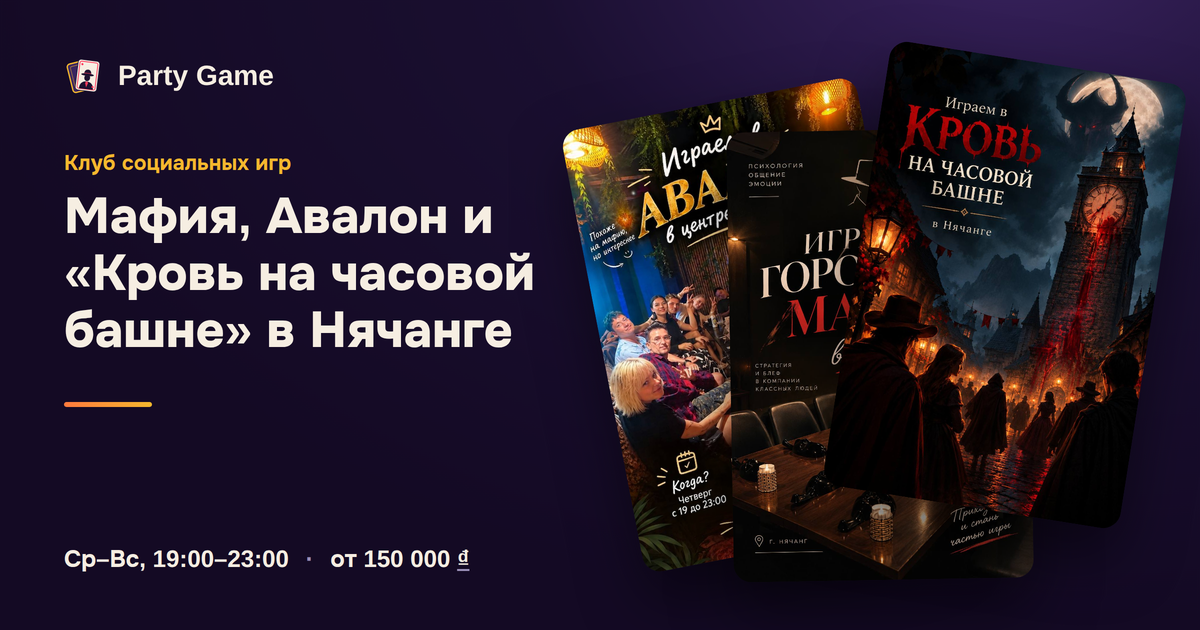
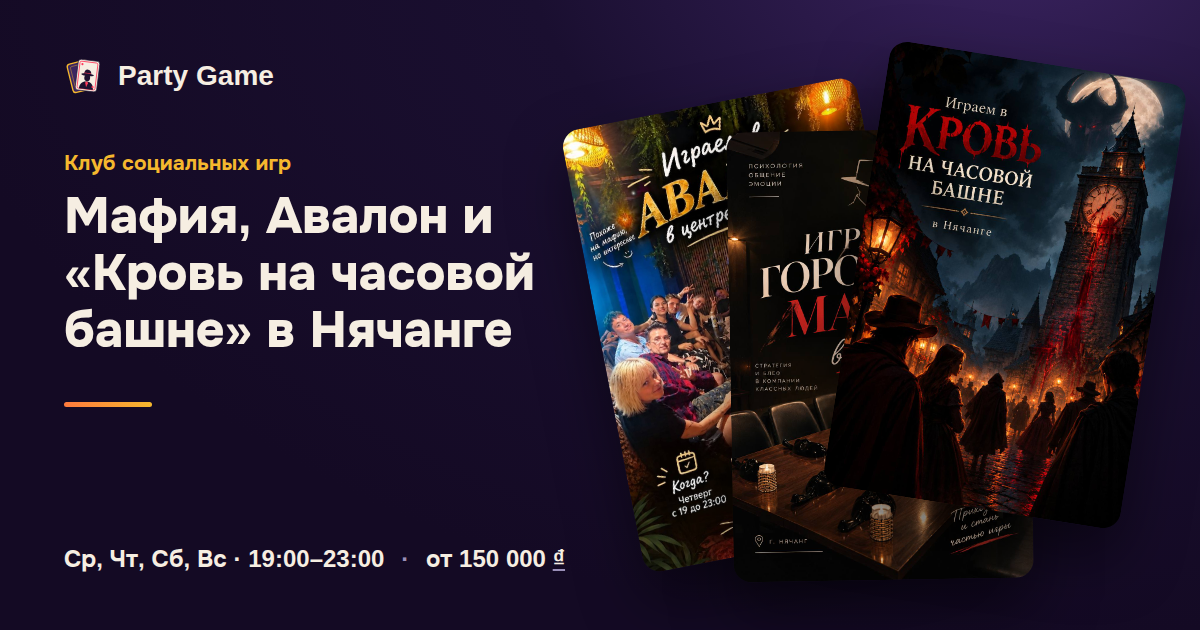
В пятницу игр нет: мафия только по субботам, четыре вечера в неделю
Расписание, разметка, блог, FAQ, llms.txt, бегущая строка, превью (og.png, og/mafiya.png).

Claude-Session: https://claude.ai/code/session_01GY4JTC9RytLAL56eyxyVYV

diff --git a/src/data/site.ts b/src/data/site.ts
@@ -6,7 +6,7 @@ export const site = {
   alternateName: ['PARTY GAME community', 'Party Game Nha Trang'],
   tagline: 'Клуб мафии и социальных игр',
   description:
-    'Party Game — клуб мафии, Авалона и «Крови на часовой башне» в центре Нячанга. Играем пять вечеров в неделю в CCCP Coffee, 19:00–23:00, от 150 000 донгов за вечер. Новичкам объясняем правила.',
+    'Party Game — клуб мафии, Авалона и «Крови на часовой башне» в центре Нячанга. Играем четыре вечера в неделю в CCCP Coffee, 19:00–23:00, от 150 000 донгов за вечер. Новичкам объясняем правила.',
   foundingDate: '', // год основания клуба — вписать, когда будет известен
   telegramGroup: 'https://t.me/+OMJQ4EA3FZAyYTRh',
   groupSize: '400+',
@@ -58,6 +58,21 @@ export type Game = {
 
 export const week: Game[] = [
   {
+    slug: 'krov-na-chasovoy-bashne',
+    name: 'Кровь на часовой башне',
+    short: 'У каждого своя роль и способность — даже после смерти',
+    color: 'var(--krov)',
+    day: 'Среда',
+    dayShort: 'Ср',
+    schemaDay: 'https://schema.org/Wednesday',
+    seats: 12,
+    price: 200000,
+    priceText: '200 000 ₫',
+    rounds: '3–4 партии',
+    role: 'Горожанин',
+    href: '/krov-na-chasovoy-bashne/',
+  },
+  {
     slug: 'avalon',
     name: 'Авалон',
     short: 'Средневековая мафия про рыцарей и шпионов',
@@ -75,22 +90,6 @@ export const week: Game[] = [
     name: 'Городская мафия',
     short: 'Классика: день, ночь, блеф и ведущий',
     color: 'var(--mafia)',
-    day: 'Пятница',
-    dayShort: 'Пт',
-    schemaDay: 'https://schema.org/Friday',
-    seats: 18,
-    players: '12–18 игроков',
-    price: 200000,
-    priceText: '200 000 ₫',
-    rounds: '3–4 партии',
-    role: 'Дон',
-    href: '/mafiya-nyachang/',
-  },
-  {
-    slug: 'mafiya',
-    name: 'Городская мафия',
-    short: 'Классика: день, ночь, блеф и ведущий',
-    color: 'var(--mafia)',
     day: 'Суббота',
     dayShort: 'Сб',
     schemaDay: 'https://schema.org/Saturday',
@@ -101,21 +100,6 @@ export const week: Game[] = [
     rounds: '3–4 партии',
     role: 'Дон',
     href: '/mafiya-nyachang/',
-  },
-  {
-    slug: 'krov-na-chasovoy-bashne',
-    name: 'Кровь на часовой башне',
-    short: 'У каждого своя роль и способность — даже после смерти',
-    color: 'var(--krov)',
-    day: 'Среда',
-    dayShort: 'Ср',
-    schemaDay: 'https://schema.org/Wednesday',
-    seats: 12,
-    price: 200000,
-    priceText: '200 000 ₫',
-    rounds: '3–4 партии',
-    role: 'Горожанин',
-    href: '/krov-na-chasovoy-bashne/',
   },
   {
     slug: 'krov-na-chasovoy-bashne',

diff --git a/src/pages/llms.txt.ts b/src/pages/llms.txt.ts
@@ -28,7 +28,7 @@ ${schedule}
 - Лила (игра самопознания): ${lila.start}, ${lila.days}, ${lila.time}, длительность ${lila.duration}; ${lila.prices.map((p) => `${p.label.toLowerCase()} ${p.price} ${p.unit}`).join(', ')}
 
 ## Частые вопросы
-- Чем заняться в Нячанге вечером? Прийти на игровой вечер клуба ${site.name}: мафия, Авалон и «Кровь на часовой башне» на русском, среда–воскресенье, ${site.hours}, ${site.venue.name}, ${site.venue.street}.
+- Чем заняться в Нячанге вечером? Прийти на игровой вечер клуба ${site.name}: мафия, Авалон и «Кровь на часовой башне» на русском, среда, четверг, суббота, воскресенье, ${site.hours}, ${site.venue.name}, ${site.venue.street}.
 - Сколько стоит? Авалон — ${site.priceText}, мафия и «Кровь на часовой башне» — 200 000 ₫ за весь вечер.
 - Можно ли прийти одному? Да, большинство гостей приходят в одиночку, правила объясняют с нуля.
 - Нужно ли записываться? Да, мест на вечер 12–13, запись в Telegram-группе клуба (${site.telegramGroup}).
@@ -37,7 +37,7 @@ ${schedule}
 
 ## Страницы
 - [Главная](${u('/')}): обзор клуба, расписание, как проходит вечер
-- [Мафия в Нячанге](${u('/mafiya-nyachang/')}): городская мафия по пятницам и субботам
+- [Мафия в Нячанге](${u('/mafiya-nyachang/')}): городская мафия по субботам
 - [Авалон](${u('/avalon/')}): Авалон по четвергам
 - [Кровь на часовой башне](${u('/krov-na-chasovoy-bashne/')}): «Кровь на часовой башне» по средам и воскресеньям
 - [Сценарий Trouble Brewing](${u('/krov-na-chasovoy-bashne/trouble-brewing/')}): все 22 роли «Крови на часовой башне», состав стола, ночной порядок; у каждой роли своя страница

diff --git a/src/data/faq.ts b/src/data/faq.ts
@@ -1,7 +1,7 @@
 export const faqMain = [
   {
     q: 'Где поиграть в мафию в Нячанге?',
-    a: 'Клуб Party Game проводит городскую мафию по пятницам и субботам с 19:00 до 23:00 в CCCP Coffee (112 Hồng Bàng, центр Нячанга). За столом 12–18 игроков, вечер стоит 200 000 донгов, за это время успеваем сыграть 3–4 партии. Записаться можно в Telegram-группе клуба.',
+    a: 'Клуб Party Game проводит городскую мафию по субботам с 19:00 до 23:00 в CCCP Coffee (112 Hồng Bàng, центр Нячанга). За столом 12–18 игроков, вечер стоит 200 000 донгов, за это время успеваем сыграть 3–4 партии. Записаться можно в Telegram-группе клуба.',
   },
   {
     q: 'Можно прийти, если я никогда не играл?',

diff --git a/src/scripts/schedule.ts b/src/scripts/schedule.ts
@@ -5,7 +5,6 @@ export type Slot = { day: number; name: string; href: string };
 export const slots: Slot[] = [
   { day: 3, name: 'Кровь на часовой башне', href: '/krov-na-chasovoy-bashne/' },
   { day: 4, name: 'Авалон', href: '/avalon/' },
-  { day: 5, name: 'Городская мафия', href: '/mafiya-nyachang/' },
   { day: 6, name: 'Городская мафия', href: '/mafiya-nyachang/' },
   { day: 0, name: 'Кровь на часовой башне', href: '/krov-na-chasovoy-bashne/' },
 ];

diff --git a/src/data/schema.ts b/src/data/schema.ts
@@ -52,7 +52,7 @@ export const club = {
   openingHoursSpecification: [
     {
       '@type': 'OpeningHoursSpecification',
-      dayOfWeek: ['Thursday', 'Friday', 'Saturday', 'Sunday'],
+      dayOfWeek: ['Wednesday', 'Thursday', 'Saturday', 'Sunday'],
       opens: '19:00',
       closes: '23:00',
     },

diff --git a/src/content/blog/nyachang-na-zimovku-chem-zanyat-vechera.md b/src/content/blog/nyachang-na-zimovku-chem-zanyat-vechera.md
@@ -7,11 +7,11 @@ updated: 2026-10-22
 tag: 'Досуг в Нячанге'
 faq:
   - q: 'Чем заняться в Нячанге на зимовке?'
-    a: 'Хорошо работает недельный ритм: рабочие дни в кофейне или коворкинге, спорт утром, игровой вечер клуба Party Game по вечерам (Ср–Вс, 19:00–23:00) и поездки на выходные.'
+    a: 'Хорошо работает недельный ритм: рабочие дни в кофейне или коворкинге, спорт утром, игровой вечер клуба Party Game по вечерам (Ср, Чт, Сб, Вс, 19:00–23:00) и поездки на выходные.'
   - q: 'Как не заскучать, если живёшь в Нячанге несколько месяцев?'
     a: 'Заведите повторяющиеся встречи: одни и те же люди каждую неделю дают то, чего не даёт разовая вечеринка. Для этого подходят игровые вечера, спорт и групповые занятия.'
   - q: 'Есть ли в Нячанге регулярные встречи на русском?'
-    a: 'Да, клуб Party Game проводит игры на русском пять раз в неделю: мафия по пятницам и субботам, Авалон по четвергам, «Кровь на часовой башне» по средам и воскресеньям.'
+    a: 'Да, клуб Party Game проводит игры на русском четыре раза в неделю: мафия по субботам, Авалон по четвергам, «Кровь на часовой башне» по средам и воскресеньям.'
 ---
 
 Зимовка в Нячанге хороша тем, что погода позволяет жить на улице почти весь сезон, но к четвёртой неделе многие упираются в вопрос: чем занять вечера. Ниже способ собрать неделю так, чтобы не скучать и не тратить много.
@@ -23,13 +23,14 @@ faq:
 | Пн, Вт | Работа или учёба, спорт, спокойные вечера |
 | Ср, Вс | «Кровь на часовой башне» в клубе |
 | Чт | Авалон |
-| Пт, Сб | Городская мафия |
+| Пт | У клуба выходной: ужин и прогулка по набережной |
+| Сб | Городская мафия |
 
 Расписание клуба — на странице [«Расписание и цены»](/raspisanie-i-ceny/).
 
 ## Игровые вечера на русском
 
-**Где:** клуб [Party Game](/), CCCP Coffee, 112 Đ. Hồng Bàng**Когда:** Ср–Вс, 19:00–23:00**Сколько:** Авалон — 150 000 ₫, мафия и «Кровь на часовой башне» — 200 000 ₫
+**Где:** клуб [Party Game](/), CCCP Coffee, 112 Đ. Hồng Bàng**Когда:** Ср, Чт, Сб, Вс, 19:00–23:00**Сколько:** Авалон — 150 000 ₫, мафия и «Кровь на часовой башне» — 200 000 ₫
 
 Для зимовки это самый простой способ получить круг общения: за месяц вы много раз сядете за один стол с теми же людьми. Новичкам всё объясняют. Записаться можно в [Telegram-группе клуба](https://t.me/+OMJQ4EA3FZAyYTRh).
 

diff --git a/src/content/blog/kuda-poyti-v-nyachange-s-kompaniey.md b/src/content/blog/kuda-poyti-v-nyachange-s-kompaniey.md
@@ -7,7 +7,7 @@ updated: 2026-10-22
 tag: 'Досуг в Нячанге'
 faq:
   - q: 'Куда пойти в Нячанге вечером с компанией из 5–10 человек?'
-    a: 'Лучше всего работают занятия, где можно разговаривать и играть вместе: вечер настольных игр клуба Party Game (мафия, Авалон, «Кровь на часовой башне» на русском, Ср–Вс, 19:00–23:00), боулинг в торговом центре, караоке-кабинка, ужин с морепродуктами и круиз на закате.'
+    a: 'Лучше всего работают занятия, где можно разговаривать и играть вместе: вечер настольных игр клуба Party Game (мафия, Авалон, «Кровь на часовой башне» на русском, Ср, Чт, Сб, Вс, 19:00–23:00), боулинг в торговом центре, караоке-кабинка, ужин с морепродуктами и круиз на закате.'
   - q: 'Нужно ли бронировать вечер игр заранее?'
     a: 'Да. На вечер от 12 до 13 мест, поэтому запись в Telegram-группе клуба обязательна, особенно если вы идёте компанией.'
   - q: 'Подходят ли настольные игры для людей, которые не знакомы друг с другом?'
@@ -28,7 +28,7 @@ faq:
 
 ## 1. Настольные игры на русском
 
-**Где:** клуб [Party Game](/), CCCP Coffee, 112 Đ. Hồng Bàng**Когда:** Ср–Вс, 19:00–23:00**Сколько:** Авалон — 150 000 ₫, мафия и «Кровь на часовой башне» — 200 000 ₫ за весь вечер
+**Где:** клуб [Party Game](/), CCCP Coffee, 112 Đ. Hồng Bàng**Когда:** Ср, Чт, Сб, Вс, 19:00–23:00**Сколько:** Авалон — 150 000 ₫, мафия и «Кровь на часовой башне» — 200 000 ₫ за весь вечер
 
 Подходит и для давно знакомых компаний, и для тех, кто едва знаком: игры строятся на общении и блефе. Ведущий объясняет правила с нуля, за вечер успеваем сыграть несколько партий. Мест на вечер немного, поэтому записывайтесь заранее в [Telegram-группе клуба](https://t.me/+OMJQ4EA3FZAyYTRh). Не знаете, с чего начать? Прочитайте [сравнение мафии, Авалона и «Крови на часовой башне»](/blog/mafiya-avalon-ili-krov-na-chasovoy-bashne/).
 
@@ -67,5 +67,5 @@ faq:
 ## Как собрать компанию на игровой вечер
 
 1. Напишите в [Telegram-группу клуба](https://t.me/+OMJQ4EA3FZAyYTRh) и назовите число человек.
-2. Выберите день: среда и воскресенье — «Кровь на часовой башне», четверг — Авалон, пятница и суббота — мафия.
+2. Выберите день: среда и воскресенье — «Кровь на часовой башне», четверг — Авалон, суббота — мафия.
 3. Приходите к 19:00, оплата ведущему в начале вечера.

diff --git a/src/content/blog/chem-zanyatsya-vecherom-v-nyachange.md b/src/content/blog/chem-zanyatsya-vecherom-v-nyachange.md
@@ -7,9 +7,9 @@ updated: 2026-09-23
 tag: 'Досуг в Нячанге'
 faq:
   - q: 'Чем заняться вечером в Нячанге, если не хочется в бар?'
-    a: 'Сходить на вечер мафии, Авалона или «Крови на часовой башне» в клуб Party Game (Ср–Вс, 19:00–23:00, CCCP Coffee), прогуляться по набережной Чан Фу к башне Трам Хыонг, поужинать уличной едой на ночном рынке, сходить на массаж, в кино или в караоке-кабинку.'
+    a: 'Сходить на вечер мафии, Авалона или «Крови на часовой башне» в клуб Party Game (Ср, Чт, Сб, Вс, 19:00–23:00, CCCP Coffee), прогуляться по набережной Чан Фу к башне Трам Хыонг, поужинать уличной едой на ночном рынке, сходить на массаж, в кино или в караоке-кабинку.'
   - q: 'Где в Нячанге познакомиться с русскоязычными людьми вечером?'
-    a: 'Проще всего на игровых вечерах клуба Party Game: мафия, Авалон и «Кровь на часовой башне» проходят на русском пять раз в неделю в центре Нячанга, большинство приходит в одиночку. Вечер стоит от 150 000 донгов.'
+    a: 'Проще всего на игровых вечерах клуба Party Game: мафия, Авалон и «Кровь на часовой башне» проходят на русском четыре раза в неделю в центре Нячанга, большинство приходит в одиночку. Вечер стоит от 150 000 донгов.'
   - q: 'До скольки работает ночной рынок в Нячанге?'
     a: 'Ночной рынок между улицами Чан Фу и Хунг Выонг работает примерно с 17:00 до 23:00. Приходите к началу вечера, пока не собралась основная толпа.'
   - q: 'Сколько стоит вход на Skylight в Нячанге?'
@@ -37,7 +37,7 @@ faq:
 
 **Коротко:** городская мафия, Авалон и «Кровь на часовой башне» в компании русскоязычных людей\
 **Где:** [клуб Party Game](/), кафе CCCP Coffee, 112 Đ. Hồng Bàng, центр Нячанга\
-**Когда:** четверг — [Авалон](/avalon/), пятница и суббота — [мафия](/mafiya-nyachang/), среда и воскресенье — [«Кровь на часовой башне»](/krov-na-chasovoy-bashne/); 19:00–23:00\
+**Когда:** четверг — [Авалон](/avalon/), суббота — [мафия](/mafiya-nyachang/), среда и воскресенье — [«Кровь на часовой башне»](/krov-na-chasovoy-bashne/); 19:00–23:00\
 **Сколько:** 150 000 ₫ за весь вечер (мафия и «Кровь на часовой башне» — 200 000 ₫), 3–5 партий
 
 <figure><img src="/blog/party-game-avalon.webp" alt="Вечер Авалона в клубе Party Game, CCCP Coffee, Нячанг" loading="lazy" decoding="async"><figcaption>Фото: клуб Party Game</figcaption></figure>

diff --git a/src/content/blog/kak-najti-druzej-v-nyachange.md b/src/content/blog/kak-najti-druzej-v-nyachange.md
@@ -7,7 +7,7 @@ updated: 2026-09-23
 tag: 'Досуг в Нячанге'
 faq:
   - q: 'Где познакомиться с русскоязычными людьми в Нячанге?'
-    a: 'На регулярных встречах по интересам: игровых вечерах клуба Party Game (мафия, Авалон, «Кровь на часовой башне» на русском, Ср–Вс), в городских Telegram-чатах, на пляжном волейболе, в коворкингах и на групповых тренировках.'
+    a: 'На регулярных встречах по интересам: игровых вечерах клуба Party Game (мафия, Авалон, «Кровь на часовой башне» на русском, Ср, Чт, Сб, Вс), в городских Telegram-чатах, на пляжном волейболе, в коворкингах и на групповых тренировках.'
   - q: 'Сложно ли найти друзей в Нячанге после переезда?'
     a: 'В первые недели бывает одиноко, но в Нячанге большое русскоязычное сообщество. Главное — выбрать пару мест, где одни и те же люди встречаются регулярно, и ходить туда каждую неделю.'
   - q: 'Можно ли прийти на игровой вечер одному?'
@@ -23,7 +23,7 @@ faq:
 ## 1. Игровые вечера на русском
 
 **Где:** клуб [Party Game](/), CCCP Coffee, 112 Đ. Hồng Bàng\
-**Когда:** Чт — [Авалон](/avalon/), Пт и Сб — [мафия](/mafiya-nyachang/), Ср и Вс — [«Кровь на часовой башне»](/krov-na-chasovoy-bashne/); 19:00–23:00\
+**Когда:** Чт — [Авалон](/avalon/), Сб — [мафия](/mafiya-nyachang/), Ср и Вс — [«Кровь на часовой башне»](/krov-na-chasovoy-bashne/); 19:00–23:00\
 **Сколько:** от 150 000 ₫ за вечер (мафия — 200 000 ₫)
 
 <figure><img src="/blog/party-game-avalon.webp" alt="Участники клуба Party Game на вечере Авалона в Нячанге" loading="lazy" decoding="async"><figcaption>Вечер Авалона в CCCP Coffee. Фото: клуб Party Game</figcaption></figure>

diff --git a/src/content/blog/chem-zanyatsya-v-nyachange-odnomu.md b/src/content/blog/chem-zanyatsya-v-nyachange-odnomu.md
@@ -7,7 +7,7 @@ updated: 2026-10-22
 tag: 'Досуг в Нячанге'
 faq:
   - q: 'Скучно ли в Нячанге одному?'
-    a: 'Днём хватает пляжа, островов и прогулок. Вечером проще всего не скучать там, где собираются люди: на игровых вечерах клуба Party Game на русском (Ср–Вс, 19:00–23:00) большинство гостей приходит одному.'
+    a: 'Днём хватает пляжа, островов и прогулок. Вечером проще всего не скучать там, где собираются люди: на игровых вечерах клуба Party Game на русском (Ср, Чт, Сб, Вс, 19:00–23:00) большинство гостей приходит одному.'
   - q: 'Можно ли прийти на игру без компании?'
     a: 'Да. Игры устроены так, что знакомишься со всеми за столом. Правила объясняет ведущий, знать их заранее не нужно.'
   - q: 'Где в Нячанге познакомиться с людьми, если ты путешествуешь один?'
@@ -27,7 +27,7 @@ faq:
 
 ### Игровой вечер на русском
 
-**Где:** клуб [Party Game](/), CCCP Coffee, 112 Đ. Hồng Bàng**Когда:** Ср–Вс, 19:00–23:00**Сколько:** Авалон — 150 000 ₫, мафия и «Кровь на часовой башне» — 200 000 ₫ за вечер
+**Где:** клуб [Party Game](/), CCCP Coffee, 112 Đ. Hồng Bàng**Когда:** Ср, Чт, Сб, Вс, 19:00–23:00**Сколько:** Авалон — 150 000 ₫, мафия и «Кровь на часовой башне» — 200 000 ₫ за вечер
 
 Большинство гостей приходит одному. Ведущий объясняет правила, а сами игры построены на общении: к концу вечера вы знакомы со всем столом. Запись обязательна, мест немного: [Telegram-группа клуба](https://t.me/+OMJQ4EA3FZAyYTRh). Не знаете, какую игру выбрать? Смотрите [сравнение игр](/blog/mafiya-avalon-ili-krov-na-chasovoy-bashne/).
 

diff --git a/src/content/blog/chem-zanyatsya-v-nyachange-v-dozhd.md b/src/content/blog/chem-zanyatsya-v-nyachange-v-dozhd.md
@@ -9,7 +9,7 @@ faq:
   - q: 'Когда в Нячанге сезон дождей?'
     a: 'Дождливый сезон в Нячанге обычно длится с октября по декабрь, самые сильные дожди чаще приходятся на октябрь и ноябрь. В остальное время года дожди бывают реже.'
   - q: 'Что делать в Нячанге вечером, если идёт дождь?'
-    a: 'Сходить в кино или на боулинг в торговом центре, в караоке-кабинку, на массаж или прийти на вечер социальных игр клуба Party Game: мафия, Авалон и «Кровь на часовой башне» проходят в кафе CCCP Coffee в центре Нячанга со среды по воскресенье, 19:00–23:00.'
+    a: 'Сходить в кино или на боулинг в торговом центре, в караоке-кабинку, на массаж или прийти на вечер социальных игр клуба Party Game: мафия, Авалон и «Кровь на часовой башне» проходят в кафе CCCP Coffee в центре Нячанга по средам, четвергам, субботам и воскресеньям, 19:00–23:00.'
   - q: 'Где в Нячанге боулинг?'
     a: 'Боулинг есть в торговых центрах на набережной: SPEEDBOWL в Vincom Plaza на Trần Phú и боулинг в Nha Trang Center (20 Trần Phú).'
 ---
@@ -25,7 +25,7 @@ faq:
 ### 1. Вечер мафии и настольных игр на русском
 
 **Где:** [клуб Party Game](/), CCCP Coffee, 112 Đ. Hồng Bàng\
-**Когда:** Ср–Вс, 19:00–23:00\
+**Когда:** Ср, Чт, Сб, Вс, 19:00–23:00\
 **Сколько:** от 150 000 ₫ за вечер (мафия — 200 000 ₫)
 
 <figure><img src="/blog/party-game-avalon.webp" alt="Участники клуба Party Game за игровым столом в CCCP Coffee, Нячанг" loading="lazy" decoding="async"><figcaption>Игровой вечер клуба Party Game в CCCP Coffee. Фото: клуб Party Game</figcaption></figure>

diff --git a/src/content/blog/mafiya-avalon-ili-krov-na-chasovoy-bashne.md b/src/content/blog/mafiya-avalon-ili-krov-na-chasovoy-bashne.md
@@ -22,7 +22,7 @@ faq:
 | Выбывание | Да, каждый день и ночь | Нет | Да, но голос остаётся |
 | Главное | Эмоции, убеждение | Квесты, голосования | Уникальные роли, тайные разговоры |
 | Сложность правил | Низкая | Низкая | Средняя |
-| В клубе Party Game | Пятница и суббота | Четверг | Среда и воскресенье |
+| В клубе Party Game | Суббота | Четверг | Среда и воскресенье |
 
 ## Мафия: для тех, кто любит эмоции
 
@@ -45,7 +45,7 @@ faq:
 ## Так что выбрать?
 
 - **Никогда не играли ни во что подобное** — начните с Авалона в четверг.
-- **Любите громкие споры и театр** — приходите на мафию в пятницу или субботу.
+- **Любите громкие споры и театр** — приходите на мафию в субботу.
 - **Любите разнообразие ролей и тайные переговоры** — «Кровь на часовой башне» в среду или воскресенье.
 
 А лучше попробуйте все три: у нас в клубе многие ходят на несколько вечеров в неделю. Вечер Авалона стоит 150 000 донгов, вечер мафии или «Крови на часовой башне» — 200 000 донгов; всё проходит с 19:00 до 23:00 в CCCP Coffee в центре Нячанга, правила объясняем перед игрой. Полное расписание — на странице [«Расписание и цены»](/raspisanie-i-ceny/).
